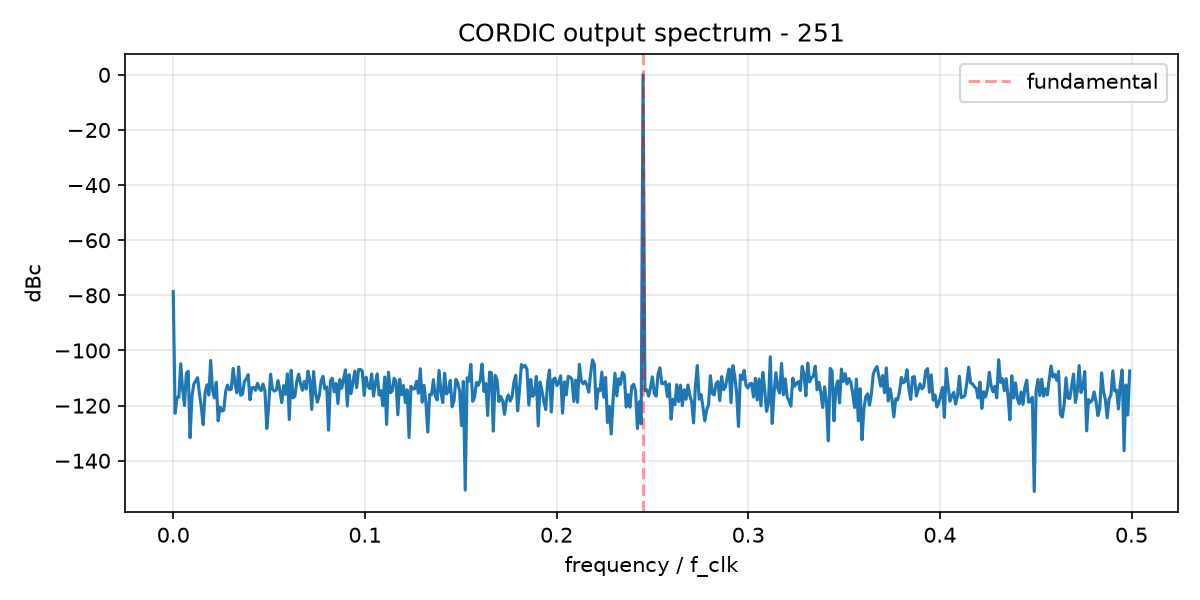
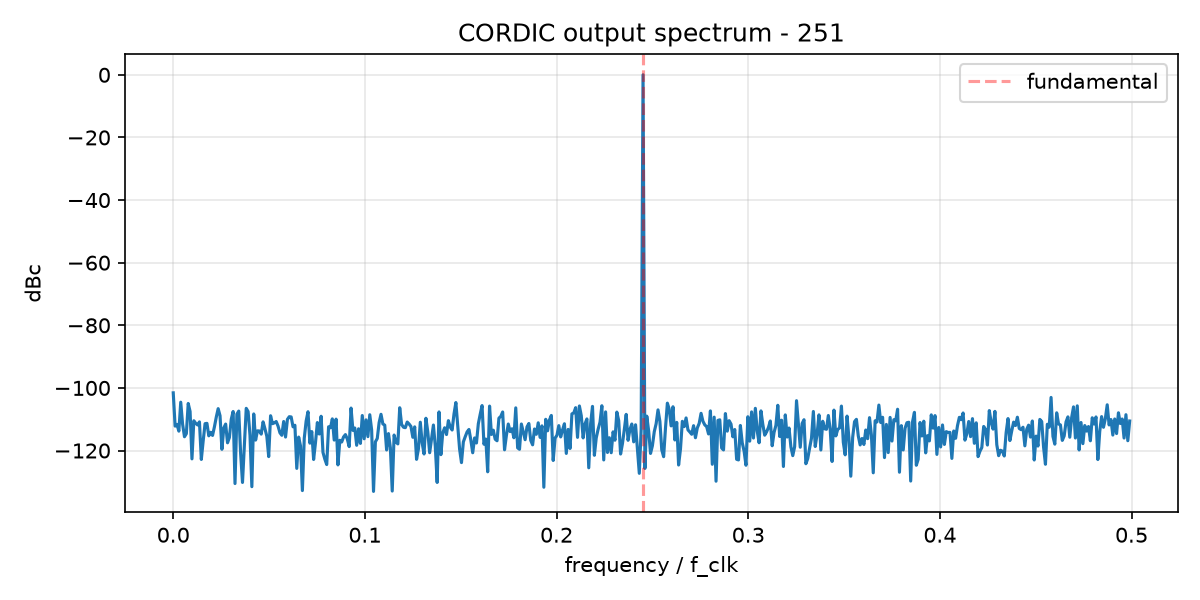
tried something, but changed back

diff --git a/prj/LIA_1/scripts/gen_cordic_constants.py b/prj/LIA_1/scripts/gen_cordic_constants.py
@@ -22,17 +22,17 @@ atan_scaled = np.round(atan_vals / (np.pi / 2) * (2 ** (WORK_WIDTH - 1))).astype
 # -> Can also see this since pi/2 and -pi/2 are given by 10...0 and thus are the smallest negative number in twos complement (i.e. -2^(WORK_WIDTH-1))
 #    So scale to that, then our range is [-pi/2,pi/2)!
 
-# with open("atan_table.mem", "w") as f:
-#     for v in atan_scaled:
-#             f.write(f"{v & (2**WORK_WIDTH - 1):0{(WORK_WIDTH+3)//4}x}\n")
+with open("atan_table.mem", "w") as f:
+    for v in atan_scaled:
+            f.write(f"{v & (2**WORK_WIDTH - 1):0{(WORK_WIDTH+3)//4}x}\n")
             # v & (2**WORK_WIDTH - 1) -> bitwise AND with 0000111...1 with WORK_WIDTH many 1s to make the python integer v fixed width (WORK_WIDTH)
             #                            this is exactly the size of z in the CORDIC stages!
             # :0{(WORK_WIDTH+3)//4}x  -> specifies Python's f-string format specification. x at the end makes it hexadecimal rather than default decimal.
             # {(WORK_WIDTH+3)//4}x}   -> number of hex digits needed to represent WORK_WIDTH bits.    
 
-with open(output_path, "w") as f:
-    for v in atan_scaled:
-        f.write(f"{v & (2**WORK_WIDTH - 1):0{(WORK_WIDTH+3)//4}x}\n")
+# with open(output_path, "w") as f:
+#     for v in atan_scaled:
+#         f.write(f"{v & (2**WORK_WIDTH - 1):0{(WORK_WIDTH+3)//4}x}\n")
         # v & (2**WORK_WIDTH - 1) -> bitwise AND with 0000111...1 with WORK_WIDTH many 1s to make the python integer v fixed width (WORK_WIDTH)
         #                            this is exactly the size of z in the CORDIC stages!
         # :0{(WORK_WIDTH+3)//4}x  -> specifies Python's f-string format specification. x at the end makes it hexadecimal rather than default decimal.
